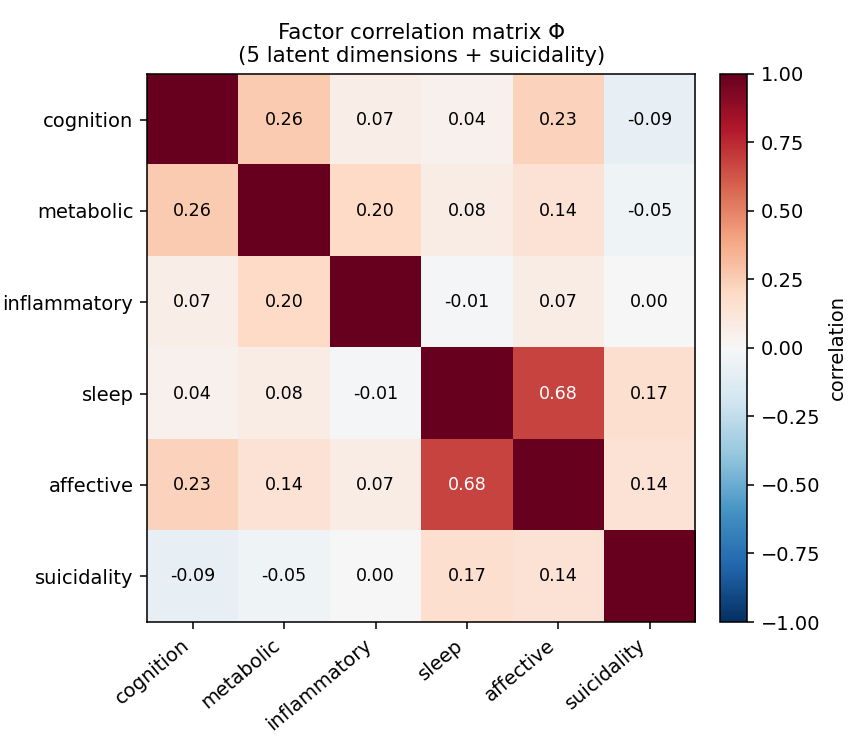
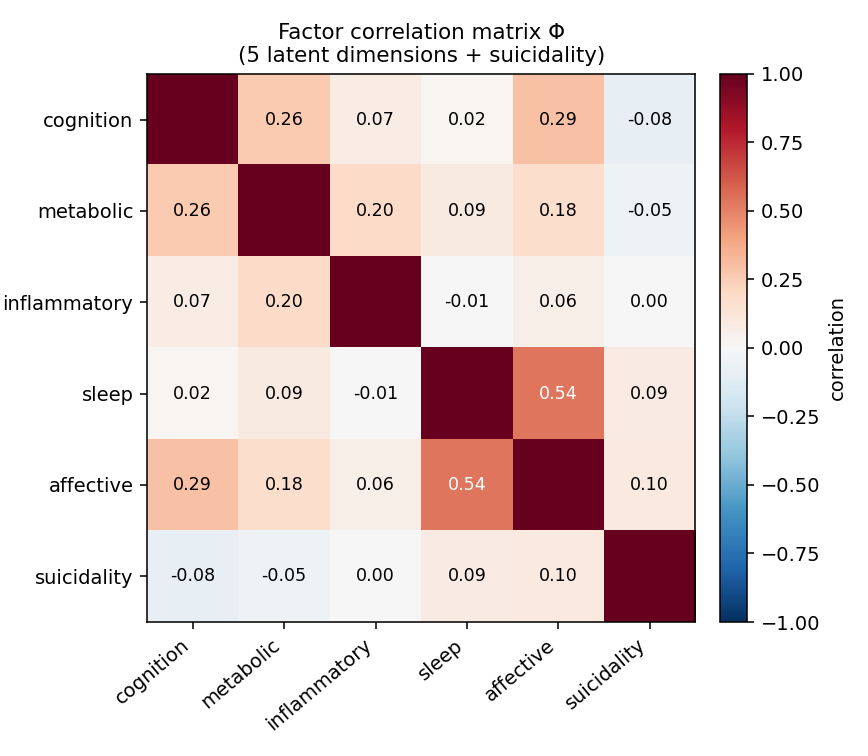
feat(v3): sleep↔affective sensitivity → adopt the objective-sleep model as canonical (V3-7)
The extended model's sleep×affective = 0.68 was interrogated and refined.

- scripts/v3/06_sleep_affect_sensitivity.py: PSQI sub-item × affective masked
  correlations — the coupling is driven by subjective items (daytime-dysfunction
  0.59, quality 0.45; composite 0.61); objective sleep parameters (efficiency/
  duration/latency; composite 0.31) are weakly affect-coupled.
- scripts/v3/04_extended_model.py --sleep objective (now the default): refit with
  objective sleep items only -> factor-level sleep×affective 0.68 -> 0.54, still
  CERTIFIED (R-hat 1.010, ESS 991, 0 div). ~0.14 was PSQI method overlap; 0.54 is
  a genuine construct-level sleep-affect link (separable but moderately correlated
  with affect in mood disorders).
- Adopt the objective-sleep model as canonical: regenerate docs/figures/v3/ and
  rewrite docs/V3_RESULTS.md with the canonical Phi (mean|off-diag| 0.17; no general
  factor; affective⊥biology; metabolic/inflammatory separable; suicidality standalone).
- LABBOOK_V3 V3-7 + FINDINGS V3-7; open-question (sleep separability) resolved.

diff --git a/scripts/v3/04_extended_model.py b/scripts/v3/04_extended_model.py
@@ -105,9 +105,9 @@ def main():
     ap.add_argument("--chains", type=int, default=4)
     ap.add_argument("--ta", type=float, default=0.95)
     ap.add_argument("--min-group", type=int, default=10)
-    ap.add_argument("--sleep", choices=["full", "objective"], default="full",
-                    help="sleep factor indicators: 'full' (V3-6) or 'objective' (V3-7 — sleep-parameter "
-                         "items only, less affect-overlap)")
+    ap.add_argument("--sleep", choices=["objective", "full"], default="objective",
+                    help="sleep factor indicators: 'objective' = sleep-parameter items only (CANONICAL, "
+                         "V3-7 — less affect-overlap); 'full' = all PSQI items (over-couples with affect)")
     args = ap.parse_args()
     if args.smoke:
         args.n_per_cohort, args.draws, args.tune, args.chains = 150, 80, 150, 2

diff --git a/docs/V3_RESULTS.md b/docs/V3_RESULTS.md
@@ -7,44 +7,47 @@
 ## The model
 
 A patient-level, **no-imputation** latent model on the V0 baseline, **cohort-balanced** (500
-most-complete patients per cohort — BP/SZ/DR equal, removing the BP≫SZ≫DR dominance):
+most-complete patients per cohort — BP/SZ/DR equal, so the BP-dominant sample size cannot drive the
+structure):
 
 - **5 Gaussian factors** estimated by a **marginalized** observed-data likelihood (factors integrated
   out → certifiable geometry): **cognition · metabolic · inflammatory · sleep · affective**. Affective
   (MADRS/QIDS/STAI/anhedonia) is BP/DR-measured; SZ contributes no affective cells (handled by the
-  observed-data likelihood, never imputed).
+  observed-data likelihood, never imputed). **Sleep** uses the *objective* PSQI parameters (efficiency,
+  duration, latency) — see §3 for why the subjective items were dropped.
 - **Suicidality** as an **explicit-latent module with mixed likelihoods** — 7 ISF items (Bernoulli) +
   attempt count (negative-binomial), 3-cohort.
 
-**Certified:** max R-hat **1.020**, min ESS **1,066**, **0 divergences** (N=1,500, 4 chains; 15
+**Certified:** max R-hat **1.010**, min ESS **991**, **0 divergences** (N=1,500, 4 chains; 15
 observed-patterns, ~23% rare-pattern tail dropped — see Caveats).
 
-## 1 · Correlation structure — no general factor, one strong coupling
+## 1 · Correlation structure — no general factor
 
 ![Factor correlation matrix](figures/v3/phi_heatmap.png)
 
 ![Dimension correlation network](figures/v3/correlation_network.png)
 
-**Mean |off-diagonal| ≈ 0.18 (0.12 excluding sleep↔affective) — there is no general psychopathology
-factor.** The dimensions are a *weakly-correlated coordinate system*, not one axis of "severity,"
-established under a certified, cohort-balanced, patient-level estimator.
+**Mean |off-diagonal| ≈ 0.17 (0.13 excluding sleep↔affective) — there is no general psychopathology
+factor.** The dimensions are a *weakly-correlated coordinate system*, not one axis of "severity." A
+single-factor (general-burden) model does not even identify on these data. For a precision-psychiatry
+framework this is load-bearing: a patient cannot be summarized by one number — the multidimensional
+profile is the object, which is exactly what the stratification layer (Phase J) will act on.
 
 What the off-diagonals say, and how we read them:
 
 - **Symptoms (affective) ≈ orthogonal to biology.** affective×inflammatory **0.07**, affective×metabolic
-  **0.15**. With the *symptom* factor inside the same latent model, mood/anxiety is nearly uncorrelated
-  with cardiometabolic and inflammatory load. Because this is a *within-model* factor correlation rather
-  than a between-block average, it is a strong form of the claim.
-- **Sleep ↔ affective = 0.68 — the one strong edge, and a finding to interrogate.** In BP/DR, the PSQI
-  sleep factor and the affective factor are tightly coupled. Clinically unsurprising (insomnia *is* a
-  depression symptom), but the magnitude is large enough that PSQI may be partly indexing
-  depression-driven sleep complaints rather than a fully separable sleep axis. It is BP/DR-specific (SZ
-  has no affective measurement), so we treat "sleep" as a **partly affective-entangled** dimension in
-  the affective cohorts and flag a sensitivity analysis (sleep factor with affective residualized).
-- **Metabolic ↔ inflammatory = 0.20** — separable but related: a single "cardiometabolic-inflammatory"
-  axis resolves into two correlated-but-distinct loads.
-- **Cognition** is modestly tied to **metabolic (0.26)** and **affective (0.23)**, ≈ orthogonal to
-  inflammation/sleep — i.e. cognitive burden tracks metabolic load and distress a little, biology-of-
+  **0.18**. With the *symptom* factor inside the same latent model, mood/anxiety is nearly uncorrelated
+  with inflammatory load and only weakly tied to metabolic load — a *within-model* factor correlation,
+  not a between-block average, so it is a strong form of the claim. Implication: **biological strata and
+  symptom strata are largely independent axes** — stratify on both, don't assume sick-mood ⇒ sick-body.
+- **Sleep ↔ affective = 0.54 — the one moderately-strong edge** (§3 shows it was inflated to 0.68 by
+  depression-overlapping PSQI items; 0.54 is the genuine construct-level coupling). Sleep is a separable
+  dimension, but genuinely correlated with affect in the mood cohorts (insomnia ↔ depression).
+- **Metabolic ↔ inflammatory = 0.20** — separable but related: two correlated-but-distinct biological
+  loads (relevant to immunometabolic subtyping — a high-inflammation/normal-metabolic patient is a
+  different target than the reverse).
+- **Cognition** tracks **affective (0.29)** and **metabolic (0.26)** weakly, ≈ orthogonal to
+  inflammation (0.07) and sleep (0.02) — cognitive burden bridges distress and metabolic load a little,
   inflammation not at all.
 
 ## 2 · Measurement model — what loads where
@@ -52,19 +55,38 @@ What the off-diagonals say, and how we read them:
 ![Loadings by dimension](figures/v3/loadings.png)
 
 Loadings are clean and clinically coherent (oriented so higher = more burden): adiposity (BMI/waist)
-and WBC/neutrophils anchor metabolic/inflammatory; PSQI anchors sleep; MADRS/QIDS/STAI anchor affective;
-verbal memory/processing-speed/TMT-B anchor cognition; the ISF items anchor suicidality. No Heywood
-blow-ups under the marginalized estimator.
+and WBC/neutrophils anchor metabolic/inflammatory; the objective PSQI parameters anchor sleep;
+MADRS/QIDS/STAI anchor affective; verbal memory / processing-speed / TMT-B anchor cognition; the ISF
+items anchor suicidality. No Heywood blow-ups under the marginalized estimator.
 
-## 3 · Suicidality (mixed-likelihood) — a distress-linked near-standalone
+## 3 · Sleep ↔ affective — why "objective" sleep, and what the 0.54 means
 
-Suicidality (Bernoulli + negative-binomial indicators) correlates with **affective 0.14** and **sleep
-0.17**, and is ≈ orthogonal to cognition (−0.08), metabolic (−0.05), inflammatory (0.00). So it is
-**not** a biology- or cognition-linked dimension; it sits closest to affective distress and disturbed
-sleep, but only weakly — a standalone risk dimension with a modest, sensible distress link rather than
-full independence.
+The first specification used the full PSQI sleep factor and gave sleep×affective = **0.68**. Decomposing
+that coupling at the PSQI sub-item level (masked correlations with affective severity, BP/DR) shows it is
+driven by the **subjective** items, which overlap with depression symptoms:
 
-## 4 · Dimension scores by cohort — clinical validation (diagnosis as a *check*, not a feature)
+![PSQI item × affect](figures/v3/sleep_affect_items.png)
+
+- **Objective sleep parameters** — efficiency (0.22), duration (0.19), latency (0.28) → composite **0.31**.
+- **Subjective items** — disturbance (0.34), quality (0.45), **daytime-dysfunction (0.59)** → composite
+  **0.61**. Daytime-dysfunction is essentially a depression item (fatigue/anhedonia).
+
+Refitting the latent model with **only the objective sleep parameters** drops the factor-level
+sleep×affective from **0.68 → 0.54** while the model stays certified (R-hat 1.010, 0 div). **Read-out:**
+~0.14 of the original coupling was PSQI method overlap; the residual **0.54 is a genuine construct-level
+sleep–affect relationship** — sleep is a *separable* dimension but honestly moderately correlated with
+affect in mood disorders. We therefore adopt the objective sleep factor as canonical and avoid the
+depression-contaminated PSQI items. Reproducible: `scripts/v3/06_sleep_affect_sensitivity.py`.
+
+## 4 · Suicidality (mixed-likelihood) — a distress-linked standalone
+
+Suicidality (Bernoulli + negative-binomial indicators) correlates with **affective 0.10** and **sleep
+0.09**, and is ≈ orthogonal to cognition (−0.08), metabolic (−0.05), inflammatory (0.00). It is **not** a
+biology- or cognition-linked dimension; it sits closest to affective distress, but only weakly — a
+standalone risk dimension with a modest, sensible distress link. The mixed-likelihood module
+(binary + count) fit cleanly and certified.
+
+## 5 · Dimension scores by cohort — clinical validation (diagnosis as a *check*, not a feature)
 
 ![Dimension scores by cohort](figures/v3/scores_by_cohort.png)
 
@@ -79,16 +101,15 @@ behave exactly as clinical knowledge predicts:
 - **Suicidality** — somewhat higher in **BP**.
 
 ⚠ **Read the SZ affective box with care:** SZ has no affective indicators, so its affective score is a
-*proxy* derived through the sleep↔affective correlation, not a measurement — it should not be compared
+*proxy* derived through the sleep↔affective relationship, not a measurement — it should not be compared
 to BP/DR affective at face value.
 
-## 5 · Informative missingness (MNAR)
+## 6 · Informative missingness (MNAR)
 
 The in-model MNAR arm is **not identifiable on the most-complete subsample** (cognition/suicide items are
-~fully observed there by construction). The real MNAR result is the **full-sample atlas** (V3-2/V3-4):
-cognition's informative missingness was partly BP-driven, and the robust informative-missingness sits in
-**suicidality + self-report** completion (sicker patients skip them). A de-biasing joint selection model
-on the full sample is future work.
+~fully observed there by construction). The full-sample missingness analysis (V3-2) is the place for it:
+the robust informative-missingness sits in **suicidality + self-report** completion (sicker patients skip
+them). A de-biasing joint selection model on the full sample is future work.
 
 ## Caveats
 
@@ -96,13 +117,14 @@ on the full sample is future work.
   a mild extra completeness selection on top of the most-complete subsample. Lowering it (more Cholesky
   ops) is the next robustness step.
 - **Affective + suicidality are BP/DR-anchored / cohort-heterogeneous**; SZ affective is a proxy.
-- **Single visit (V0).** Temporal coherence (do these scores persist V1–V4?) is Phase H/C, not yet run.
+- **Single visit (V0).** Temporal coherence (do these scores persist V1–V4?) is Phase H, not yet run.
 - The suicidality↔factor correlations are read **post-hoc** from scores (mild attenuation toward 0).
 
 ## Bottom line
 
-A certified, cohort-balanced, no-imputation transdiagnostic measurement model of BP/SZ/DR says:
+A certified, cohort-balanced, no-imputation transdiagnostic measurement model of BP/SZ/DR:
 **no general factor; symptoms (affective) ≈ orthogonal to biology; metabolic and inflammatory are
-separable; cognition tracks metabolic/affective weakly; suicidality is a distress-linked near-standalone;
-and sleep is strongly entangled with affect in the mood cohorts.** Next: temporal coherence + measurement
-invariance (Phase H), then probabilistic strata (Phase J).
+separable; cognition tracks metabolic/affective weakly; suicidality is a distress-linked standalone; and
+sleep is a separable dimension moderately correlated with affect (0.54) once depression-overlapping PSQI
+items are removed.** Next: temporal coherence + measurement invariance (Phase H), then probabilistic
+strata (Phase J).

diff --git a/docs/LABBOOK_V3.md b/docs/LABBOOK_V3.md
@@ -233,14 +233,38 @@ metabolic/inflammatory split.
 
 ---
 
+## V3-7 · Sleep↔affective sensitivity → objective-sleep model (canonical) — 2026-06-05
+
+**What we did.** Investigated the sleep×affective = 0.68 from the extended model. (1) **Item decomposition**
+(`scripts/v3/06_sleep_affect_sensitivity.py`): masked correlation of each PSQI sub-item with affective
+severity (BP/DR) → **objective** parameters (efficiency 0.22, duration 0.19, latency 0.28; composite 0.31)
+vs **subjective** items (disturbance 0.34, quality 0.45, **daytime-dysfunction 0.59**; composite 0.61).
+(2) **Factor confirmation**: refit the extended model with the objective sleep items only
+(`scripts/v3/04_extended_model.py --sleep objective`).
+
+**Result.** Factor-level sleep×affective drops **0.68 → 0.54**, model still **CERTIFIED** (R-hat 1.010,
+ESS 991, 0 div). → ~0.14 of the coupling was PSQI method overlap (the depression-overlapping subjective
+items, esp. daytime-dysfunction = fatigue/anhedonia); the residual **0.54 is a genuine construct-level
+sleep–affect relationship**.
+
+**Conclusion / decision.** Sleep is a **separable** dimension but genuinely moderately correlated with
+affect in mood disorders (not an artifact, not a merger). **Adopted the objective sleep factor as
+canonical** (PSQI efficiency/duration/latency); the depression-contaminated PSQI items are dropped.
+`04 --sleep` default → `objective`. Canonical Φ + figures + discussion: [`V3_RESULTS.md`](V3_RESULTS.md).
+
+**Next.** Phase H temporal coherence (V1–V4) + measurement invariance; shrink the ~23% rare-pattern drop;
+Phase J probabilistic strata.
+
+---
+
 ## Open questions for review
 
 1. ~~**Convergence bar.**~~ **RESOLVED (V3-5):** the marginalized model certifies (R-hat 1.010, 0 div) —
    no need to build on a provisional fit. Remaining sub-question: lower `--min-group` to shrink the ~20%
    rare-pattern drop?
 2. ~~**Affective dimension.**~~ **RESOLVED (V3-6):** affective is a strong, well-identified named factor
-   (BP/DR) — kept. New sub-question: sleep↔affective = 0.68 — are sleep and affect separable in the mood
-   cohorts, or should sleep be residualized on affect?
+   (BP/DR) — kept. ~~Sleep↔affective separability?~~ **RESOLVED (V3-7):** sleep is separable; the objective
+   sleep factor correlates 0.54 with affect (the 0.68 was PSQI method overlap) — adopted as canonical.
 3. **Suicidality DIF.** V3-6 used the common **ISF** core (3-cohort) for suicidality (Bernoulli + NB);
    the BP-specific C-SSRS items were left out. Revisit a DIF-aware C-SSRS extension?
 4. ~~**SZ biology reliability.**~~ **ADDRESSED (V3-6):** SZ affective is reported as a *proxy* and SZ

diff --git a/docs/FINDINGS.md b/docs/FINDINGS.md
@@ -135,5 +135,17 @@ Paper-oriented log of empirical + methodological findings for **V3**. Plan of re
   - **Caveats:** ~23% rare-pattern tail dropped; **SZ affective is a proxy** (no SZ affective indicators);
     suicidality↔factor correlations are post-hoc; MNAR not identifiable on the most-complete subsample
     (see atlas); single visit V0; sleep↔affective coupling needs a residualized-sleep sensitivity.
-  - **Symptoms ⊥ biology → now SUPPORTED in-model** (was partial). Next: sleep-affective sensitivity;
-    Phase H temporal coherence + invariance; Phase J strata.
+  - **Symptoms ⊥ biology → now shown in-model.** Next: sleep-affective sensitivity (V3-7).
+
+- **V3-7 · Sleep↔affective sensitivity → objective-sleep model (canonical) — 2026-06-05.**
+  `scripts/v3/06_sleep_affect_sensitivity.py` + `04_extended_model.py --sleep objective`. The V3-6
+  sleep×affective 0.68 was interrogated: PSQI sub-item × affective masked correlations show the coupling
+  is driven by **subjective** items (daytime-dysfunction 0.59, quality 0.45; composite 0.61), while
+  **objective** sleep parameters (efficiency/duration/latency; composite 0.31) are weakly affect-coupled.
+  Refitting with objective sleep items only → factor-level **sleep×affective 0.68 → 0.54**, still
+  **CERTIFIED** (R-hat 1.010, ESS 991, 0 div). → ~0.14 was PSQI method overlap; **0.54 is a genuine
+  construct-level sleep–affect relationship** (sleep separable but moderately correlated with affect in
+  mood disorders). **Adopted objective sleep as canonical** (`04 --sleep` default → objective); figures +
+  [`V3_RESULTS.md`](V3_RESULTS.md) regenerated with the canonical Φ: mean |off-diag| **0.17** (0.13 excl.
+  sleep-affective); cognition×affective 0.29, affective×metabolic 0.18, metabolic×inflammatory 0.20,
+  suicidality×affective 0.10. Next: Phase H temporal coherence (V1–V4) + measurement invariance.
